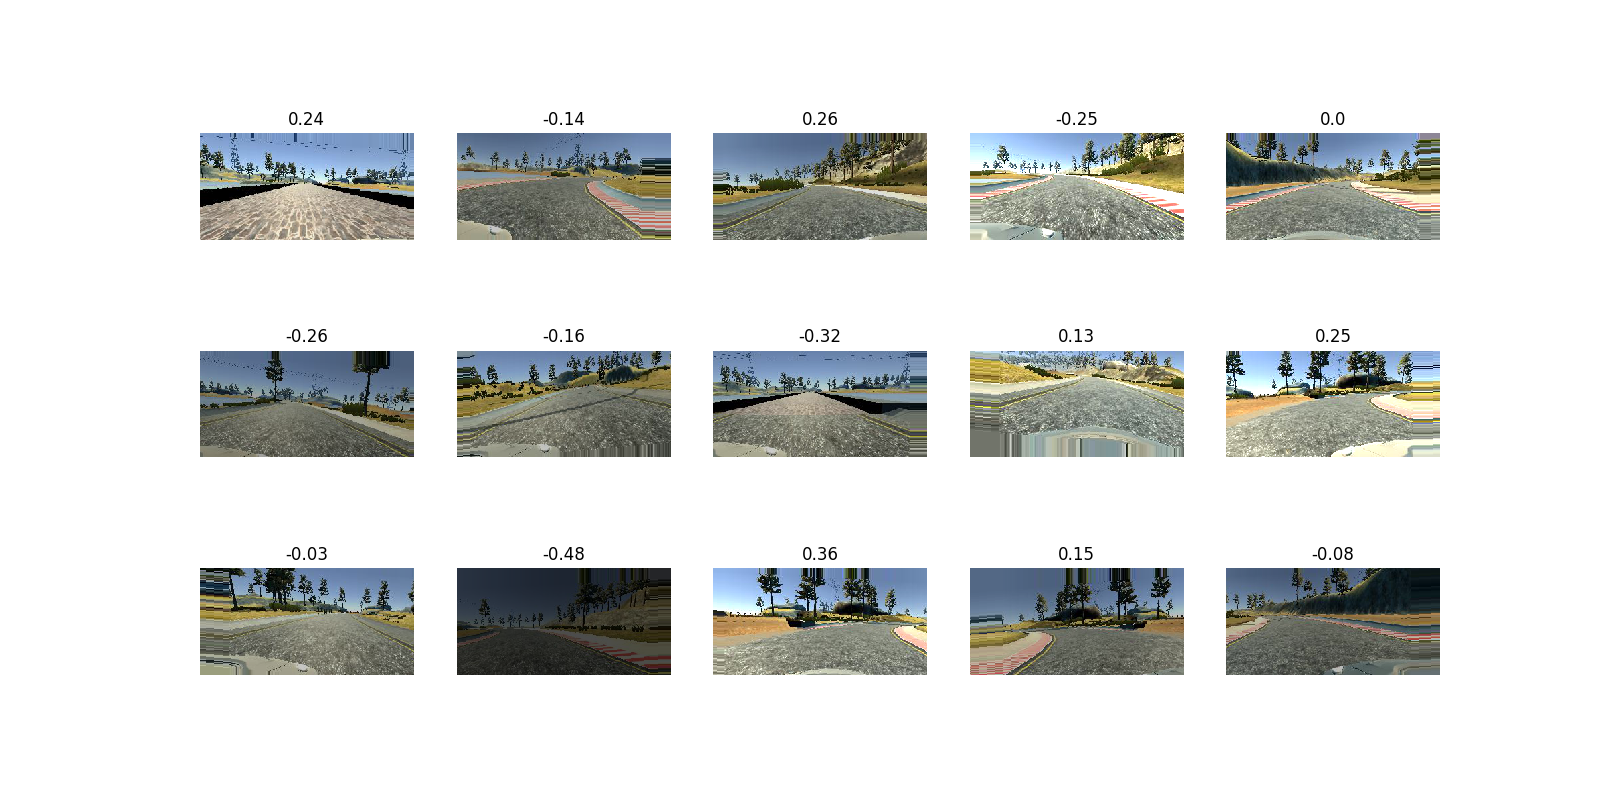
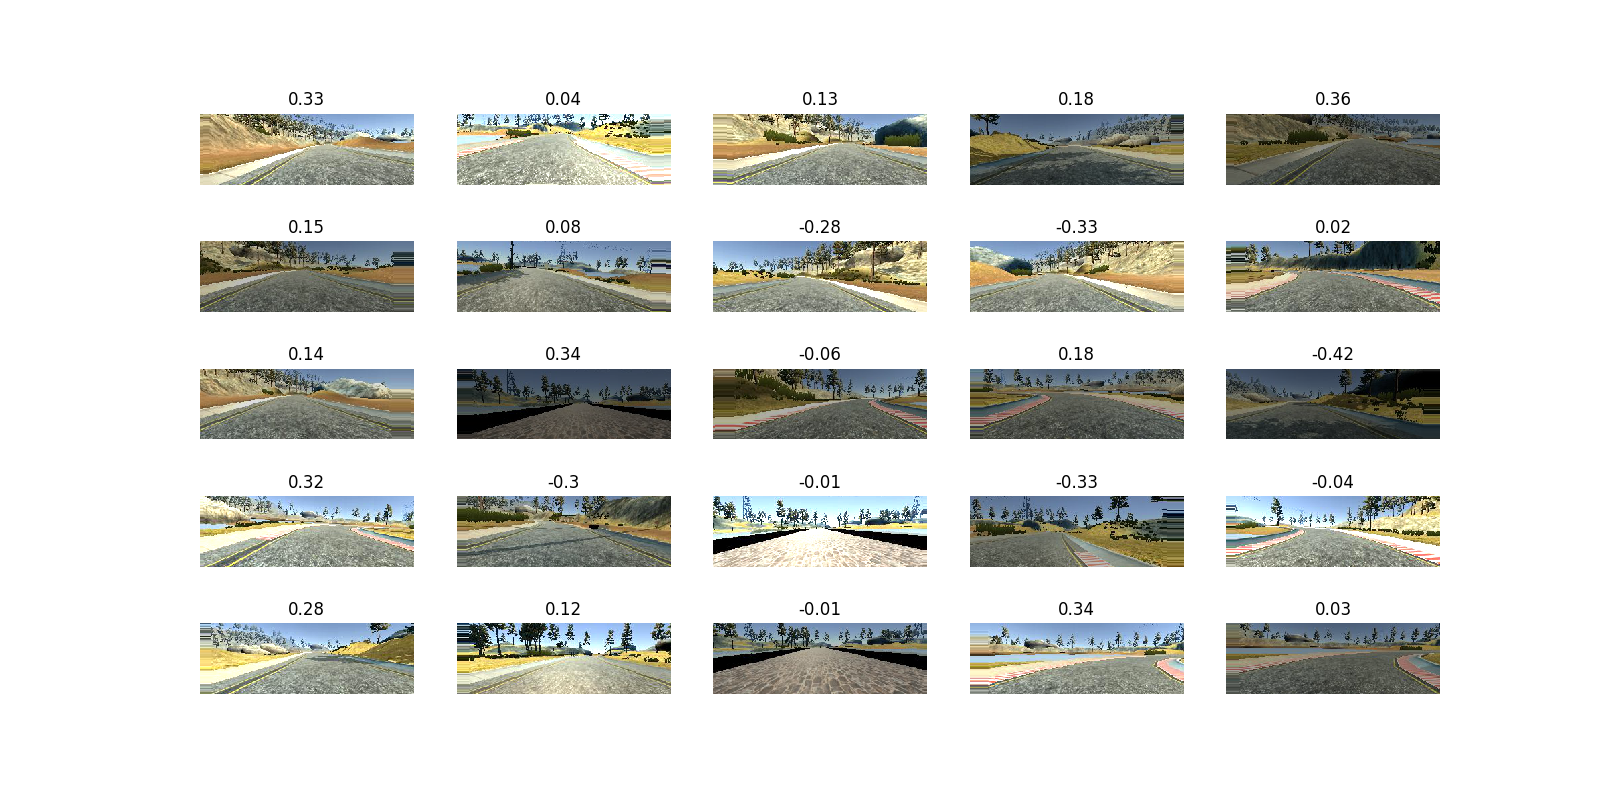
feat: move cropping to generators

diff --git a/model.py b/model.py
@@ -32,7 +32,7 @@ def save_model(model, to_file):
 
 
 # %% LOAD AND SAVE INPUT DATA
-input_dir = './input_v1/'
+input_dir = './input_v2/'
 output_dir = './output/'
 input = Input.from_file(input_dir)
 data = Data(input)
@@ -45,60 +45,62 @@ data = Data(input)
 
 # %% MAKE MODEL
 model = Sequential()
-model.add(Cropping2D(cropping=((32, 20), (0, 0)), input_shape=(160, 320, 3)))
-#model.add(Grayscale())
-model.add(
-    Convolution2D(1, (1, 1), name='color_space_convolution', activation='elu'))
 #BatchNormalization gives same result as using:
-#model.add(Lambda(lambda x: x / 127 - 1, input_shape=(160, 320, 1)))
-model.add(BatchNormalization(axis=1, name='pixel_normalization'))
-model.add(Convolution2D(24, (5, 5), strides=(2, 2), activation='elu'))
-# model.add(MaxPooling2D(pool_size=(2,2)))
+#model.add(Lambda(lambda x: x / 127 - 1, input_shape=(160, 320, 3)))
+model.add(BatchNormalization(axis=1, name='pixel_normalization', input_shape=(106, 320, 3)))
+model.add(Convolution2D(1, (1, 1), name='color_space_convolution', activation='elu'))
+#Conv 1
+model.add(Convolution2D(24, (5, 5), strides=(1, 1), activation='elu'))
+model.add(MaxPooling2D(pool_size=(2,2)))
 model.add(Dropout(0.9))
-model.add(Convolution2D(36, (5, 5), strides=(2, 2), activation='elu'))
+#Conv 2
+model.add(Convolution2D(36, (5, 5), strides=(1, 1), activation='elu'))
+model.add(MaxPooling2D(pool_size=(2,2)))
+model.add(Dropout(0.9))
+#Conv 3
+model.add(Convolution2D(48, (5, 5), strides=(1, 1), activation='elu'))
+model.add(MaxPooling2D(pool_size=(2,2)))
+model.add(Dropout(0.8))
+#Conv 4
+model.add(Convolution2D(64, (3, 3), activation='elu'))
 # model.add(MaxPooling2D(pool_size=(2,2)))
 model.add(Dropout(0.8))
-model.add(Convolution2D(48, (5, 5), strides=(2, 2), activation='elu'))
-# model.add(MaxPooling2D(pool_size=(2,2)))
-model.add(Dropout(0.7))
+#Conv 5
 model.add(Convolution2D(64, (3, 3), activation='elu'))
 # model.add(MaxPooling2D(pool_size=(2,2)))
-model.add(Dropout(0.5))
-model.add(Convolution2D(64, (3, 3), activation='elu'))
-# model.add(MaxPooling2D(pool_size=(2,2)))
-model.add(Dropout(0.5))
+model.add(Dropout(0.8))
 model.add(Flatten())
-model.add(Dense(1164))
-model.add(Dropout(0.5))
-model.add(Dense(100))
-model.add(Dropout(0.5))
-model.add(Dense(50))
-model.add(Dropout(0.5))
-model.add(Dense(10))
-model.add(Dropout(0.5))
+model.add(Dense(1164, activation='elu'))
+model.add(Dropout(0.7))
+model.add(Dense(100, activation='elu'))
+model.add(Dropout(0.7))
+model.add(Dense(50, activation='elu'))
+model.add(Dropout(0.6))
+model.add(Dense(10, activation='elu'))
+model.add(Dropout(0.6))
 model.add(Dense(1))
 plot_model(model, to_file=output_dir + 'model.png', show_shapes=True)
 
 # %% COMPILE MODEL
 # model = mgpu.make_parallel(model,2) #enable parallel gpu
-adam = optimizers.adam(lr=0.0001)
+adam = optimizers.adam(lr=0.001, decay=0.00001)
 model.compile(loss='mse', optimizer=adam)
 
 # %% RUN MODEL
 earlyStopping = EarlyStopping(
-    monitor='val_loss', min_delta=0.001, patience=5, verbose=1, mode='auto')
-train_generator = BatchGenerator(data, 'training')
-valid_generator = BatchGenerator(data, 'validation')
+    monitor='val_loss', min_delta=0.001, patience=2, verbose=0, mode='auto')
+train_generator = BatchGenerator(data, 'training', batch_size=256)
+valid_generator = BatchGenerator(data, 'validation', batch_size=256)
 
 history_object = model.fit_generator(
     train_generator,
     steps_per_epoch=train_generator.steps,
     validation_data=valid_generator,
     validation_steps=valid_generator.steps,
-    epochs=1,
+    epochs=15,
     callbacks=[earlyStopping],
-    max_q_size=100,
-    workers=10,
+    max_q_size=80,
+    workers=8,
     pickle_safe=False)
 
 # %% SAVE MODEL

diff --git a/data.py b/data.py
@@ -145,15 +145,15 @@ class Transformator:
         transform_matrix = None
 
         # spatial shear
-        intensity = 0.1
+        intensity = 0.05
         shear = np.random.uniform(-intensity, intensity)
         shear_matrix = np.array([[1, -np.sin(shear), 0], [0, np.cos(shear), 0],
                                  [0, 0, 1]])
         transform_matrix = shear_matrix
 
         # random shift
-        w_range = 0.15
-        h_range = 0.15
+        w_range = 0.1
+        h_range = 0.1
         shift_matrix, angle = self.random_shift_matrix(img, w_range, h_range,
                                                        angle)
         transform_matrix = np.dot(transform_matrix, shift_matrix)
@@ -162,8 +162,8 @@ class Transformator:
         img = self.transform_img(transform_matrix, img)
 
         # crop
-        # h, w = img.shape[0], img.shape[1]
-        # img = img[20:-34, 0:w]
+        h, w = img.shape[0], img.shape[1]
+        img = img[20:-34, 0:w]
 
         return (img, angle)
 
@@ -193,10 +193,10 @@ class Transformator:
 
 def save_plot(images, angles, path):
     fig = plt.figure(figsize=(16, 8))
-    for i in range(15):
+    for i in range(25):
         image = images[i]
         angle = angles[i]
-        plt.subplot(3, 5, i + 1)
+        plt.subplot(5, 5, i + 1)
         plt.imshow(image)
         plt.axis('off')
         plt.title(str(np.round(angle, 2)))
@@ -207,7 +207,9 @@ def plot_example_batch(plot_name='example',
                        input_dir='input_v1/',
                        output_dir='output/'):
     data = Data.from_file(input_dir)
-    tgen = data.train_generator
+    tgen = BatchGenerator(data,'training',25)
 
     imges, angles = tgen.__next__()
     save_plot(imges, angles, output_dir + plot_name)
+
+plot_example_batch()

diff --git a/drive.py b/drive.py
@@ -62,6 +62,10 @@ def telemetry(sid, data):
         imgString = data["image"]
         image = Image.open(BytesIO(base64.b64decode(imgString)))
         image_array = np.asarray(image)
+        #crop
+        h, w = img_array.shape[0], img_array.shape[1]
+        img_array = img_array[20:-34, 0:w]
+        #predict
         steering_angle = float(model.predict(image_array[None, :, :, :], batch_size=1))
 
         throttle = controller.update(float(speed))
@@ -112,7 +116,7 @@ if __name__ == '__main__':
     args = parser.parse_args()
 
     # check that model Keras version is same as local Keras version
-    f = h5py.File(args.model + '.h5', mode='r')
+    f = h5py.File(args.model, mode='r')
     model_version = f.attrs.get('keras_version')
     keras_version = str(keras_version).encode('utf8')
 
@@ -120,8 +124,7 @@ if __name__ == '__main__':
         print('You are using Keras version ', keras_version,
               ', but the model was built using ', model_version)
 
-    model = model_from_yaml(open(args.model + '.yaml').read(), custom_objects={"Grayscale":Grayscale})
-    model.load_weights(args.model + '.h5')
+    model = load_model(args.model)
 
     if args.image_folder != '':
         print("Creating image folder at {}".format(args.image_folder))
